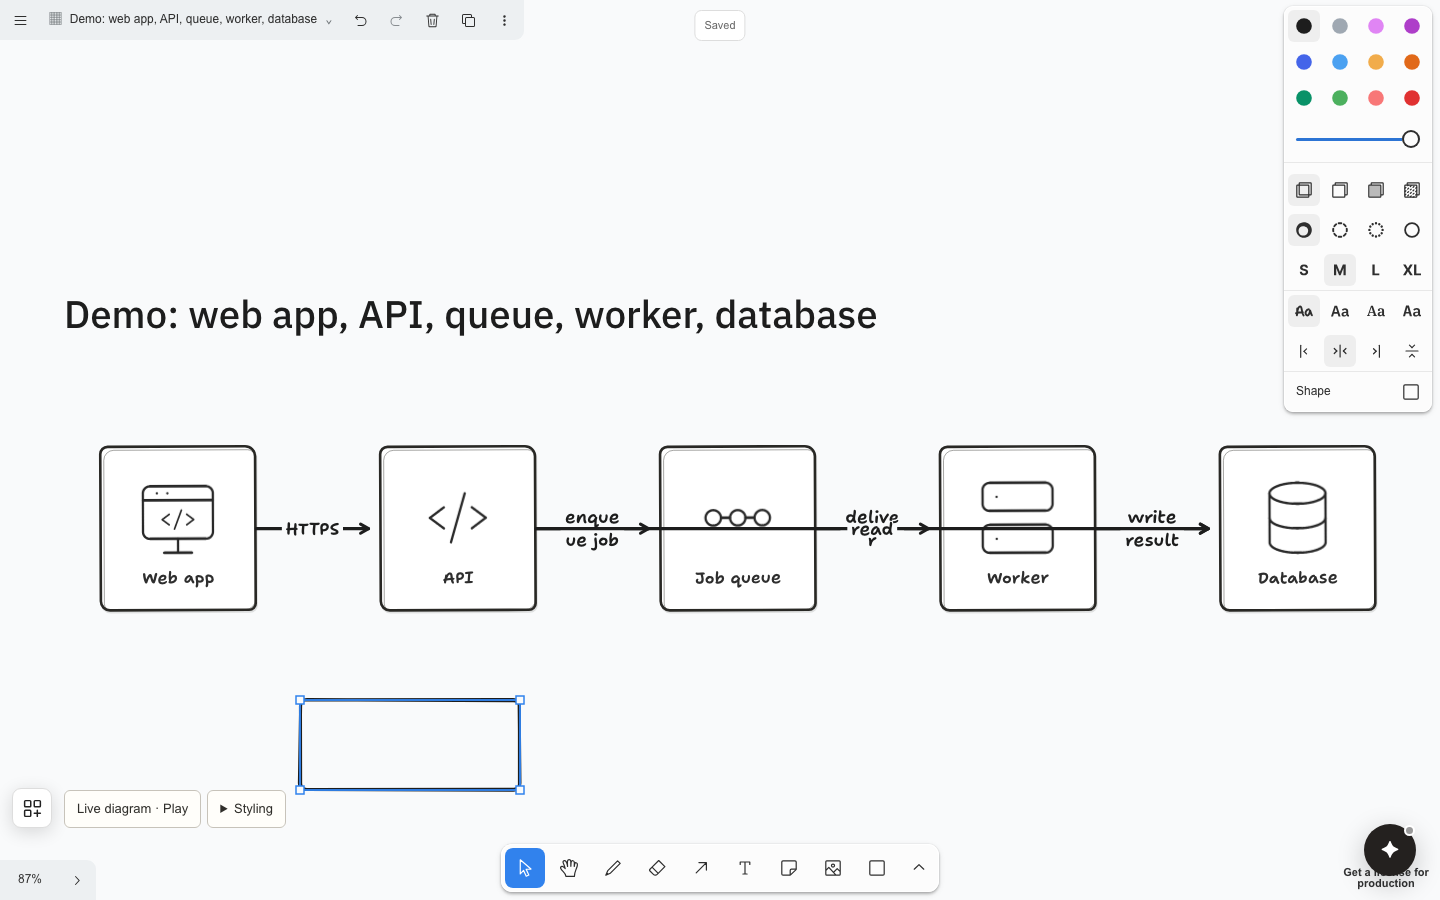
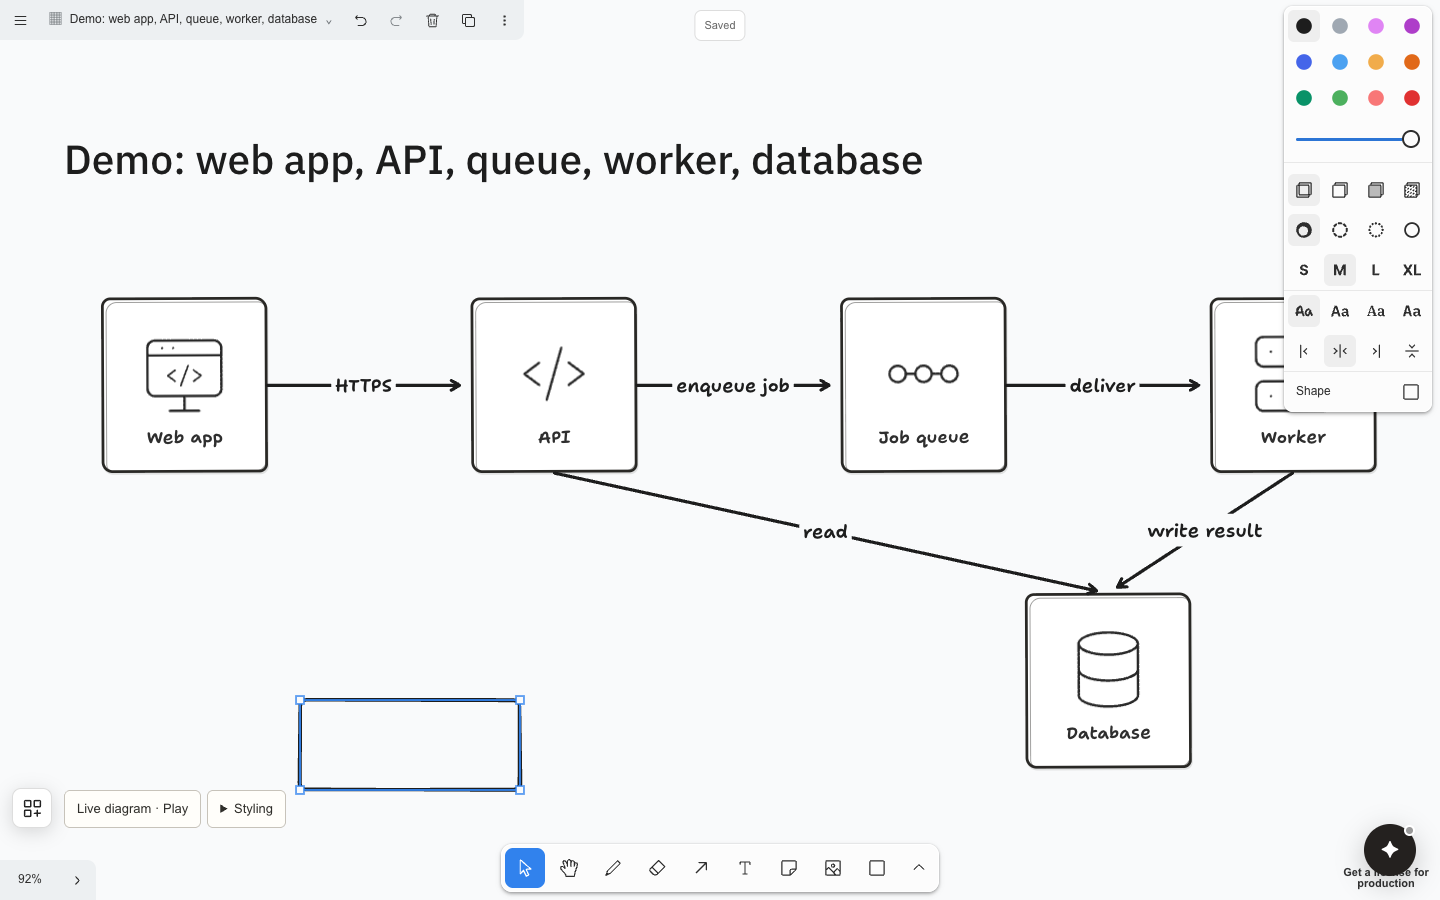
Make the README walkthrough work end to end
- Fix the layout example to target the demo spec and document the create -> layout flow
- Default CLI scripts and test:live to http://localhost:3000 with a shared TLDRAW_LAB_URL override
- Name the expected spec fields in the create error; point README to a bundled sample spec
- Board title now becomes the canvas heading; workspace open launches the browser on macOS (--print to skip)
- Agent chat treats /api/agent 404 as bridge absent and polls once a minute
- Widen the demo layout so edge labels no longer wrap mid-word; refresh screenshots
- Use CHROME_PATH everywhere, drop unused .openai/hosting.json, mark upstream paths in LIVE_DIAGRAM.md
- Clarify Node 22.13+, port troubleshooting and where CLI boards are stored; fix 3 lint warnings

diff --git a/app/ui/agent-chat.tsx b/app/ui/agent-chat.tsx
@@ -22,14 +22,18 @@ export function AgentChat({ roomId, getEditor, applyPatch }: { roomId: string; g
   const [position, setPosition] = useState({ x: 0, y: 0 });
   const drag = useRef<{ x: number; y: number; px: number; py: number } | null>(null);
   const applied = useRef(new Set<string>());
+  const bridgeAbsent = useRef(false); // /api/agent/* answered 404: no bridge runs (plain `npm start`), so poll rarely
 
   const { configured, enabled, busy } = chatState(status);
   const refresh = useCallback(async () => {
     try {
-      const [statusResponse, messagesResponse] = await Promise.all([
-        fetch("/api/agent/status", { cache: "no-store" }),
-        fetch(`/api/agent/messages?roomId=${encodeURIComponent(roomId)}`, { cache: "no-store" }),
-      ]);
+      const statusResponse = await fetch("/api/agent/status", { cache: "no-store" });
+      bridgeAbsent.current = statusResponse.status === 404;
+      if (bridgeAbsent.current) {
+        setStatus(null);
+        return;
+      }
+      const messagesResponse = await fetch(`/api/agent/messages?roomId=${encodeURIComponent(roomId)}`, { cache: "no-store" });
       const status = await statusResponse.json();
       const history = await messagesResponse.json();
       setStatus(status);
@@ -46,16 +50,17 @@ export function AgentChat({ roomId, getEditor, applyPatch }: { roomId: string; g
       }
     } catch {
       setStatus(null);
-    } // bridge unreachable (agent access off or server restarting): show the chat as disabled, the 1.5 s poll retries
+    } // bridge unreachable (agent access off or server restarting): show the chat as disabled, the poll retries
   }, [roomId, applyPatch]);
 
   useEffect(() => {
-    const initial = window.setTimeout(() => void refresh(), 0);
-    const timer = window.setInterval(() => void refresh(), 1500);
-    return () => {
-      window.clearTimeout(initial);
-      window.clearInterval(timer);
+    let timer = 0;
+    const tick = async () => {
+      await refresh();
+      timer = window.setTimeout(() => void tick(), bridgeAbsent.current ? 60_000 : 1500);
     };
+    timer = window.setTimeout(() => void tick(), 0);
+    return () => window.clearTimeout(timer);
   }, [refresh]);
 
   useEffect(() => {

diff --git a/README.md b/README.md
@@ -17,7 +17,7 @@ A local, realtime whiteboard for editable diagrams, built on the [tldraw SDK](ht
 
 Prerequisites:
 
-- Node.js `>=22.13.0` (`.nvmrc` pins 22; with nvm run `nvm use`)
+- Node.js 22.13 or newer (`engines` is `>=22.13.0`, so newer majors work too; `.nvmrc` pins 22 and with nvm you run `nvm use`)
 - npm 10 or newer (it ships with Node 22)
 - Optional, only for the macOS wrapper: macOS with the Xcode command line tools
 
@@ -28,7 +28,7 @@ npm run setup   # checks Node and npm, then runs npm ci
 npm start       # starts the app and prints its URL
 ```
 
-`npm run setup` stops with a message saying what to fix if Node or npm is too old. Open the printed URL (for example `http://localhost:3000/`). To use another port: `npm start -- --port 5173`.
+`npm run setup` stops with a message saying what to fix if Node or npm is too old. Open the printed URL (for example `http://localhost:3000/`). If port 3000 is busy, `npm start` picks the next free port and prints it. To choose one: `npm start -- --port 5173`. `npm ci` may print `npm audit` warnings from transitive dependencies; they do not affect the local app.
 
 Boards, config and snapshots are stored in `~/TldrawLab-data`. Set `TLDRAW_LAB_DATA_DIR` to use another folder, for example a throwaway one while trying the app.
 
@@ -81,17 +81,22 @@ Layers import in one direction: `ui` to `state` to `domain` to `io`. The browser
 
 ## Agent CLI
 
-Diagram specs live in `public/diagrams/*.diagram.json`, and the index is `public/workspace/index.json`. Documents are addressed by ID.
+The CLI keeps agent-created boards as source specs in the checkout: `public/diagrams/<id>.diagram.json` plus the index `public/workspace/index.json`, which the dev server serves to the app. The first time you open such a board, the app seeds its realtime room from the spec; after that the room, saved in the data directory, is the live copy. `patch` edits the source spec, so it only affects a board that has not been opened yet. To change an opened board, use the layout preflight below. Boards you create in the browser live only in the data directory. Documents are addressed by ID.
+
+The commands print links for the running app. They use `http://localhost:3000` by default; if `npm start` picked another port, set `TLDRAW_LAB_URL` to the URL it printed (the same variable is used by `npm run test:live`):
 
 ```bash
+export TLDRAW_LAB_URL=http://localhost:5173
 npm run workspace -- list
 npm run workspace -- show <id>
-npm run workspace -- create spec.json --title "My diagram" --project "demo"
+npm run workspace -- create public/diagrams/demo-web-architecture.diagram.json --title "My diagram" --project "demo"
 npm run workspace -- patch <id> patch.json
-npm run workspace -- open <id>
+npm run workspace -- open <id>           # opens the board in the default browser on macOS; add --print to only print the URL
 ```
 
-`patch.json` accepts `metadata`, a full replacement `spec`, or incremental `addNodes` and `addEdges`. To align an existing board with a layout, use the layout preflight, which drives a real tldraw `Editor` in a headless browser (needs Chrome, or `PLAYWRIGHT_CHROME`):
+`create` needs a `tldraw-lab/v1` spec; any file in `public/diagrams` is a working sample. The board title also becomes the heading on the canvas. `patch.json` accepts `metadata`, a full replacement `spec`, or incremental `addNodes` and `addEdges`.
+
+To align a board that is already open with a layout, use the layout preflight, which drives a real tldraw `Editor` in a headless browser (needs Chrome; set `CHROME_PATH` if it is not found). The example config targets a board created from the demo spec above and changes the live board:
 
 ```bash
 npm run workspace:layout -- <id> examples/layout/compact-columns.json /tmp/layout-preflight
@@ -144,7 +149,8 @@ Anyone with a tunnel URL can edit the board, and a Quick Tunnel is neither hosti
 - **Wrong Node or npm.** `npm run setup` and `npm start` print what is missing. Install Node 22 and run them again.
 - **Native module errors** (for example from `sharp` or `workerd` after switching Node versions or machines): run `npm rebuild`. If that does not help, delete `node_modules` and run `npm run setup` again.
 - **Crash or odd behaviour in a copied checkout.** Install dependencies in every checkout with `npm run setup`. Reusing or copying `node_modules` from another folder is not supported.
-- **Port in use.** Pick another with `npm start -- --port 5173`. The launcher (`npm run lab -- start`) uses `share.port` from `config.json` (default 4173). A message about the inspector port 9229 being taken is harmless.
+- **Port in use.** `npm start` picks the next free port and prints it. Point the CLI and `npm run test:live` at it with `TLDRAW_LAB_URL=http://localhost:<port>`. To choose the port yourself use `npm start -- --port 5173`. The launcher (`npm run lab -- start`) takes its ports from `config.json`: `share.port` for the app (default 4173) and `share.bridgePort` for the agent bridge (default 4174). A message about the inspector port 9229 being taken is harmless.
+- **Browser console shows one `404` for `/api/agent/status`.** Plain `npm start` does not run the agent bridge, so the chat treats the 404 as "agent unavailable" and checks again only once a minute. The browser logs that failed request itself; it is harmless.
 - **"Get a license for production" watermark.** See the next section. It is expected in development.
 - **Boards look empty after switching data directories.** Boards live in the data directory, not in the checkout. Point `TLDRAW_LAB_DATA_DIR` back to the old folder.
 
@@ -162,7 +168,7 @@ The same commands run in [CI](.github/workflows/ci.yml).
 Browser end-to-end check, with `npm start` running in another terminal (needs Chrome or a Playwright Chromium; set `CHROME_PATH` if it is not found):
 
 ```bash
-npm run test:live   # defaults to http://localhost:3000; set LIVE_BASE_URL for another port
+npm run test:live   # defaults to http://localhost:3000; set TLDRAW_LAB_URL for another port
 ```
 
 ## Licensing

diff --git a/LIVE_DIAGRAM.md b/LIVE_DIAGRAM.md
@@ -16,6 +16,8 @@ The system setting `prefers-reduced-motion: reduce` disables motion (the "No mot
 
 The check was done against the installed version (`node_modules/tldraw/package.json`, lockfile), its sources and the bundled API documentation/JSDoc, not against examples for another version:
 
+Paths below starting with `tldraw/src`, `@tldraw/editor/src` and `node_modules/` are upstream references inside the installed `tldraw` package ([tldraw sources](https://github.com/tldraw/tldraw)), not files of this repository.
+
 - `tldraw/src/lib/shapes/geo/GeoShapeUtil.tsx`, `getGeoShapePath.ts`: public `configure`, `getCustomDisplayValues`, `customGeoTypes` exist. The latter extends the outline but does not provide a per-instance multi-layer renderer with different face fills; changing display values does not add layers either. Configuring the standard util affects the registration of `geo` as a whole.
 - `@tldraw/editor/src/lib/components/default-components/DefaultShapeWrapper.tsx` and `EditorComponentsContext.tsx`: public `components.ShapeWrapper`, a required ref, and the standard attributes/children. Suitable for a non-persisted animation layer; it does not take part in export on its own.
 - `tldraw/src/index.ts`, `lib/shapes/arrow/getArrowInfo.ts`, `ArrowPath.tsx`: `getArrowInfo` is public, the exact body path helper is not. For straight and arc arrows the path is reconstructed from public points and bodyArc parameters that already account for bindings/arrowheads. The hand-drawn stroke is not copied: the marker follows its geometric axis.
@@ -51,7 +53,7 @@ Pulses are SVG `animateMotion`, activity is CSS opacity, with no RAF updates to 
 On a running local dev server:
 
 ```bash
-LIVE_BASE_URL=http://127.0.0.1:5198 npm run test:live
+TLDRAW_LAB_URL=http://127.0.0.1:5198 npm run test:live
 ```
 
 A local Chrome is required (the path can be set via `CHROME_PATH`). `scripts/verify-live-diagram.mjs` reads the demo and creates a **new test room** for mutations; it does not overwrite user documents or the demo content. The `td_live_test_*` test rooms are intentionally not deleted automatically.

diff --git a/WORKSPACE_LAYOUT_PREFLIGHT.md b/WORKSPACE_LAYOUT_PREFLIGHT.md
@@ -16,7 +16,7 @@ A workspace has two different representations:
 This procedure shares the same hard geometry invariants as new-diagram preflight: no node overlap, no connector through an unrelated node, no hidden shared connector path, no label collision, correct bindings, and independently traceable fan-in/fan-out. Reading direction, orthogonal routing, focal count, and legend placement are grammar-aware defaults rather than universal laws.
 
 1. Preserve the user's reading direction and semantic grouping.
-2. Describe compact columns, explicit shape sizes, followers, and containing boundaries in a layout config. See `examples/layout/compact-columns.json`.
+2. Describe compact columns, explicit shape sizes, followers, and containing boundaries in a layout config. See `examples/layout/compact-columns.json`, which targets a board created from `public/diagrams/demo-web-architecture.diagram.json`. Shape tokens match a substring of the shape ID, and spec nodes become `spec-<node id>-<suffix>`.
 3. Run:
 
 ```bash
